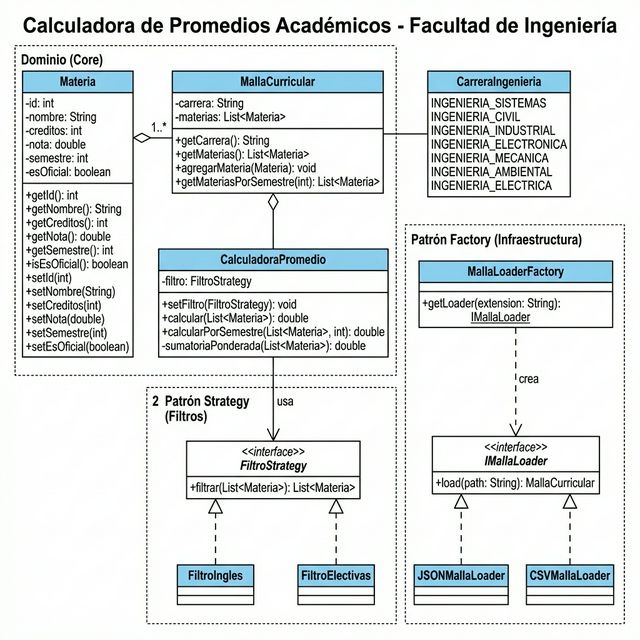
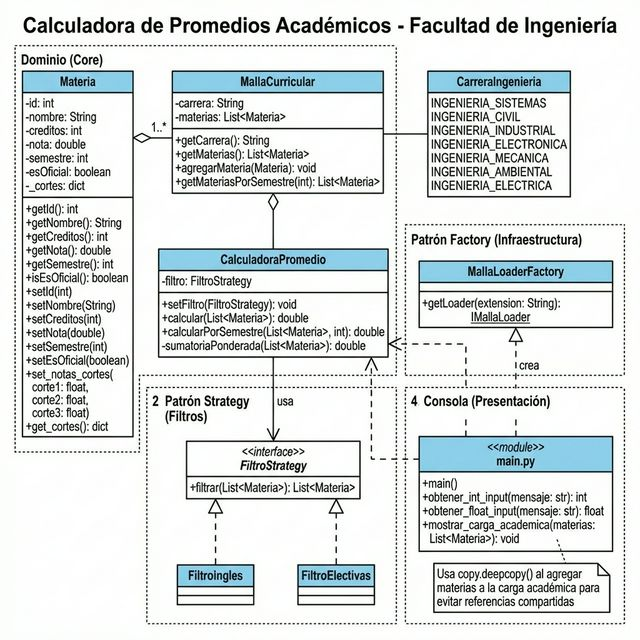
docs: Add detailed explanations of SOLID principles and design patterns to the README and update the UML class diagram.

diff --git a/README.md b/README.md
@@ -15,12 +15,25 @@
 
  ## Diseño de Software
  ### Principios SOLID aplicados:
- 
- 
+
+ **S – Single Responsibility Principle (Responsabilidad Única):**
+ Cada clase cumple una única función claramente definida por su nombre. La clase `Materia` se limita a representar los datos de una asignatura. `JSONMallaLoader` tiene como único propósito convertir un archivo JSON en objetos del dominio (`MallaCurricular`). `CalculadoraPromedio` se encarga exclusivamente de la lógica matemática del cálculo, y `main.py` solo orquesta la interacción con el usuario a través de la terminal.
+
+ **O – Open/Closed Principle (Abierto/Cerrado):**
+ Este principio se refleja en toda la carpeta `infrastructure`. Si en el futuro se requiere cargar mallas curriculares desde una base de datos SQL o desde una API externa, no es necesario modificar ninguna clase existente del núcleo del proyecto. Basta con crear una nueva clase (por ejemplo, `SqlMallaLoader`) que implemente la interfaz `IMallaLoader` y agregarla al sistema sin alterar el comportamiento ya existente.
+
+ **D – Dependency Inversion Principle (Inversión de Dependencias):**
+ La fábrica `MallaLoaderFactory.get_loader('json')` utilizada en `main.py` oculta el proceso de creación del loader. De esta forma, la clase principal trabaja con el loader a través de su contrato genérico (`IMallaLoader`), sin necesidad de depender directamente de una implementación concreta como `JSONMallaLoader`.
 
  ### Patrones de Diseño utilizados:
 
- 
+ **Factory Method (Creacional):**
+ Este patrón se encuentra implementado en `infrastructure/malla_loader_factory.py`. Su función es crear objetos de la familia de `MallaLoaders` (como `JSONMallaLoader` o `CSVMallaLoader`), aislando la lógica de instanciación del cliente que los utiliza (en este caso, `main.py`). Esto facilita la extensión del sistema con nuevos formatos de carga sin afectar al código existente.
+
+ **Strategy (De Comportamiento):**
+ Este patrón se aplica en la carpeta `strategy/filtro_strategy.py`, mediante clases como `FiltroIngles` y `FiltroElectivas`. El patrón Strategy permite definir una familia de estrategias intercambiables en tiempo de ejecución. Gracias a esto, la calculadora puede aplicar distintos criterios, como ignorar los créditos de las asignaturas de Inglés, y permite agregar nuevos filtros en el futuro (por ejemplo, un `FiltroNivel1`) sin modificar la lógica existente.
+
+
 
  ### Diagrama UML
  ![Diagrama de Clases UML](diagrama_clases_uml.png)
